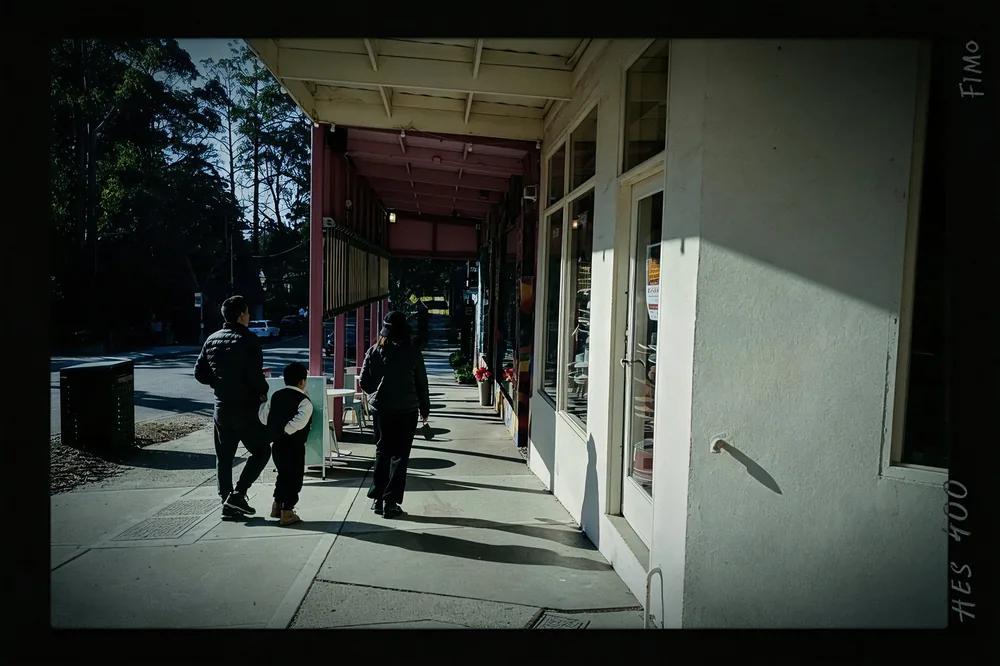
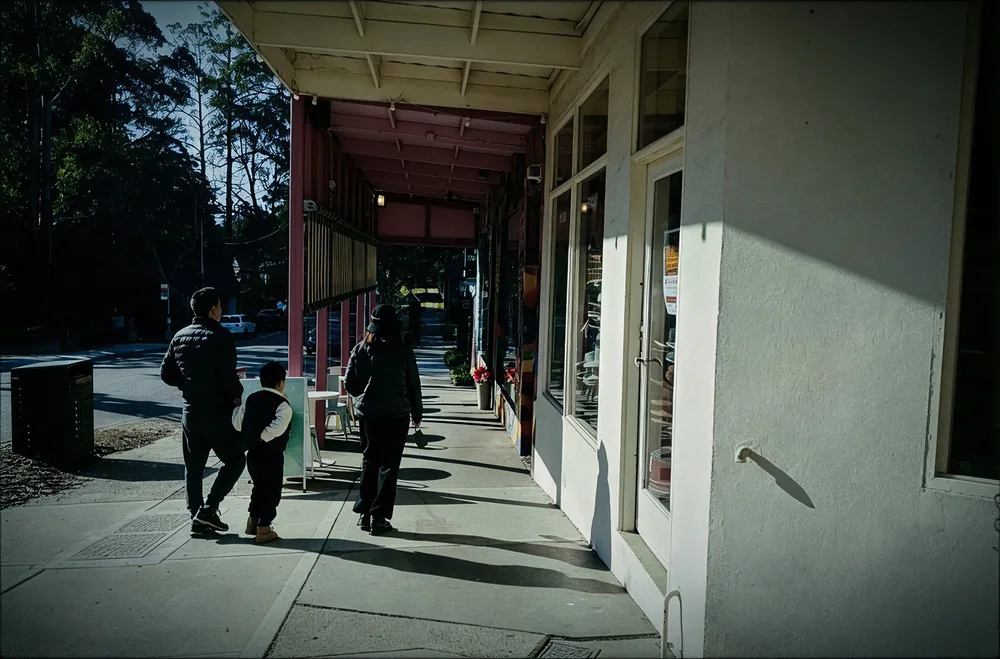
澳大利亚街景：裁掉胶片黑边框，按画面内容重出 1000x659

diff --git a/index.html b/index.html
@@ -2547,7 +2547,7 @@ html.js .view.is-active{ display:block; }
             <figcaption class="photo-rec"><span class="photo-rec-key">澳大利亚</span><span class="photo-rec-val">一张大字海报，一个人背对镜头坐在长椅上。</span></figcaption>
           </figure>
           <figure>
-            <img src="assets/photos/trip-au-street.webp" alt="街边店铺前，三个人沿着人行道往前走，头上是遮阳棚" width="1000" height="666" loading="lazy" decoding="async">
+            <img src="assets/photos/trip-au-street.webp" alt="街边店铺前，三个人沿着人行道往前走，头上是遮阳棚" width="1000" height="659" loading="lazy" decoding="async">
             <figcaption class="photo-rec"><span class="photo-rec-key">澳大利亚</span><span class="photo-rec-val">遮阳棚下的店铺前，几个人沿着人行道往前走。</span></figcaption>
           </figure>
         </div>
